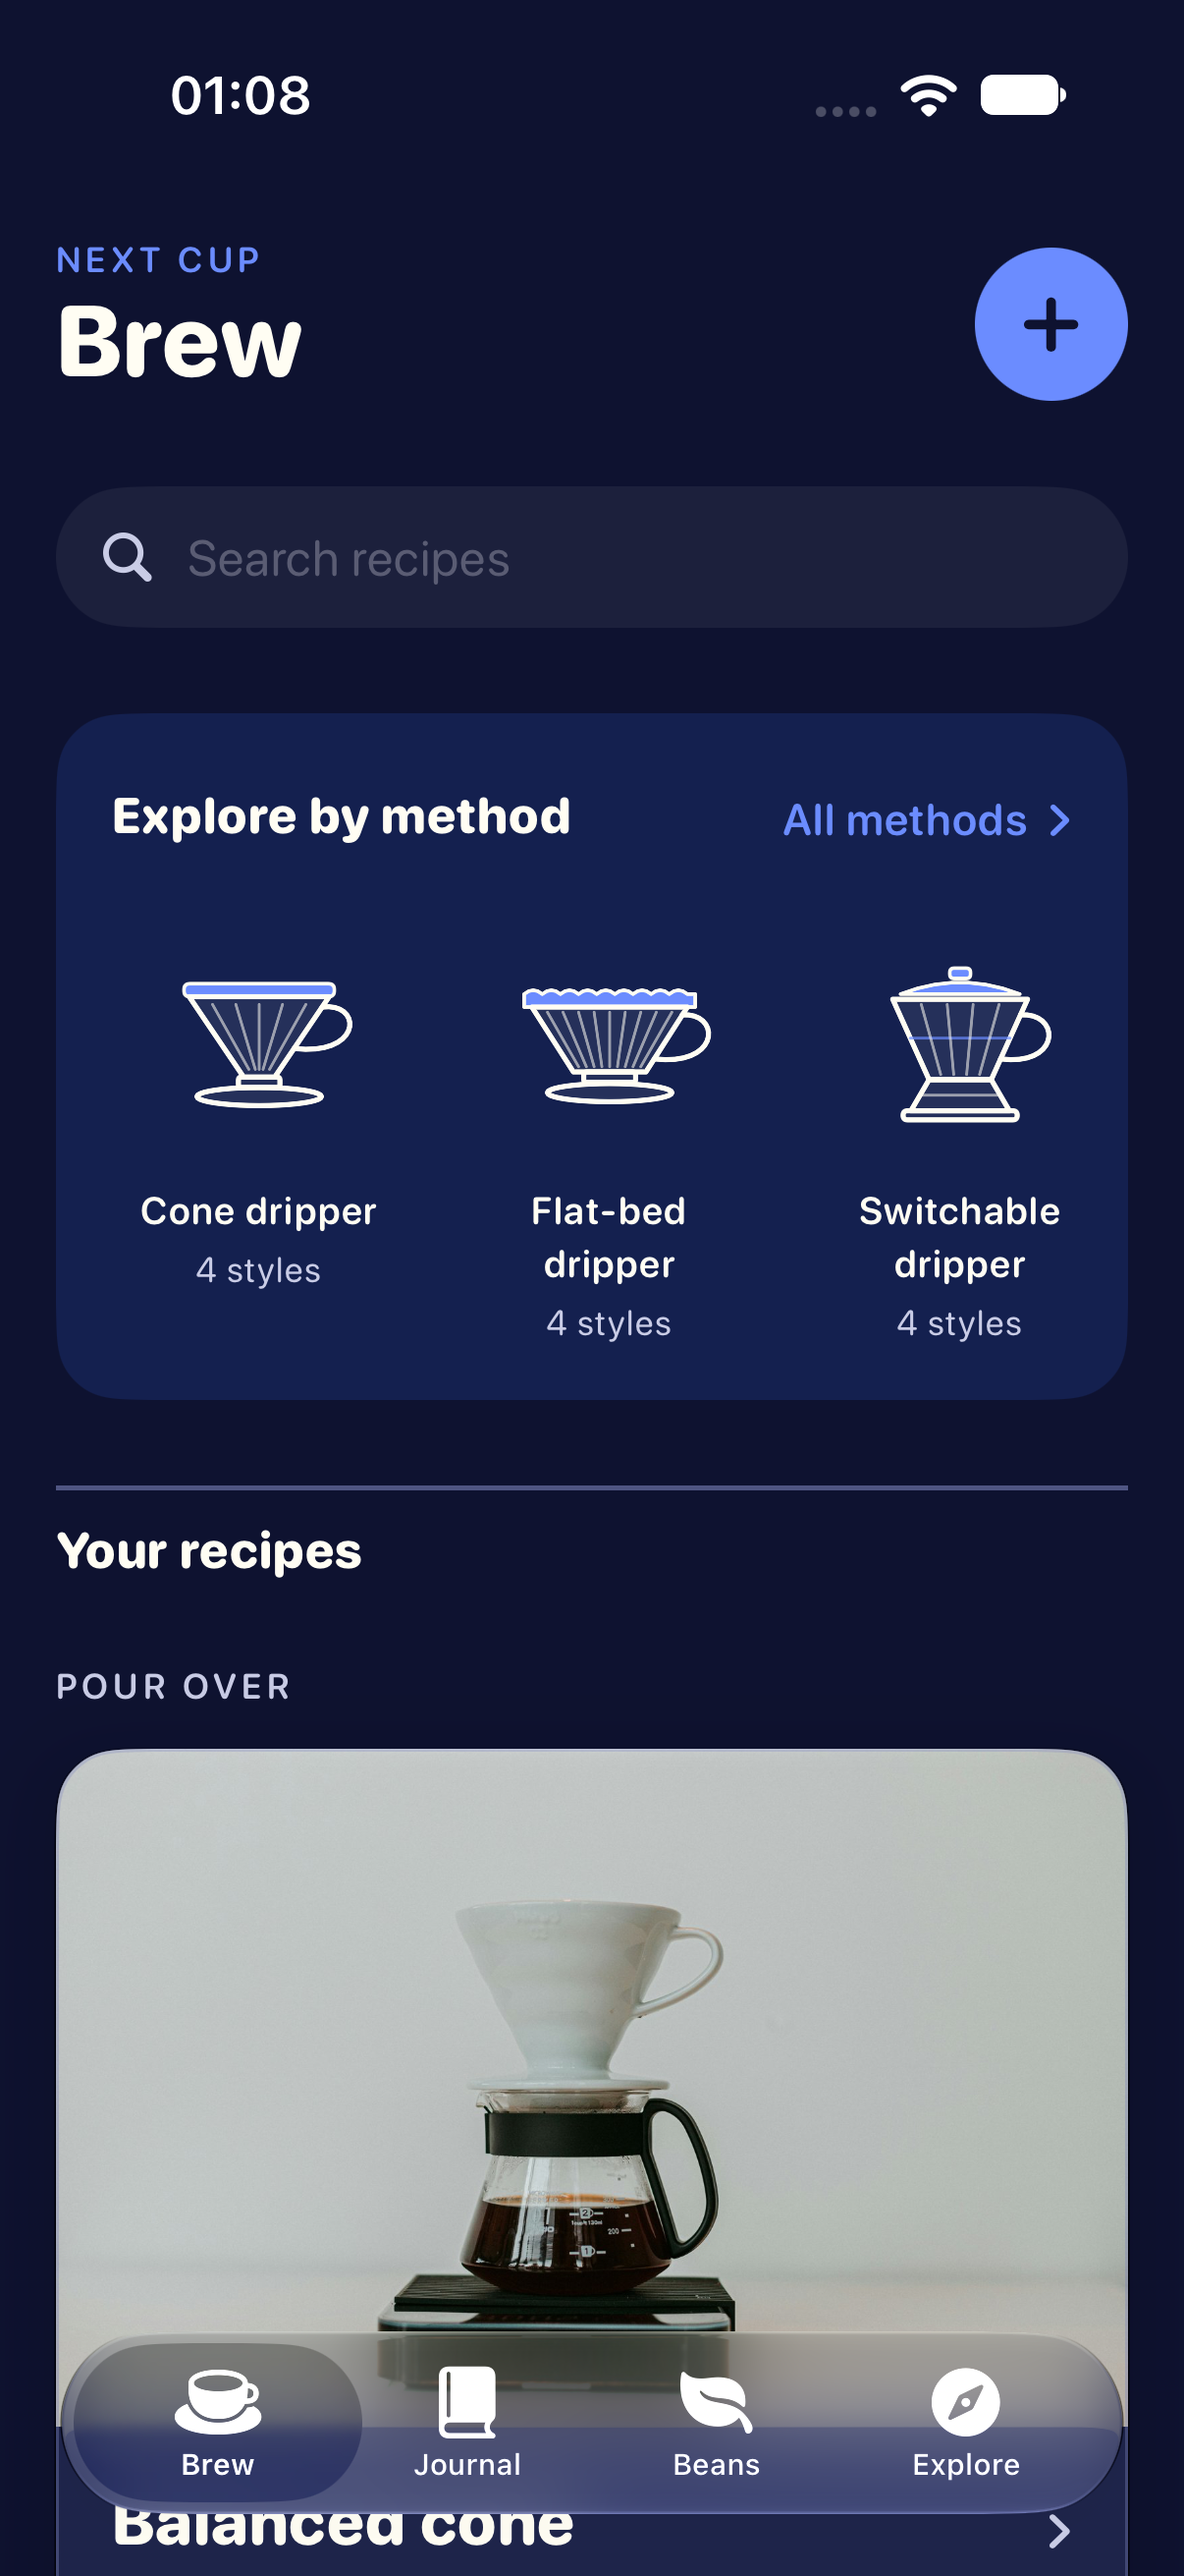
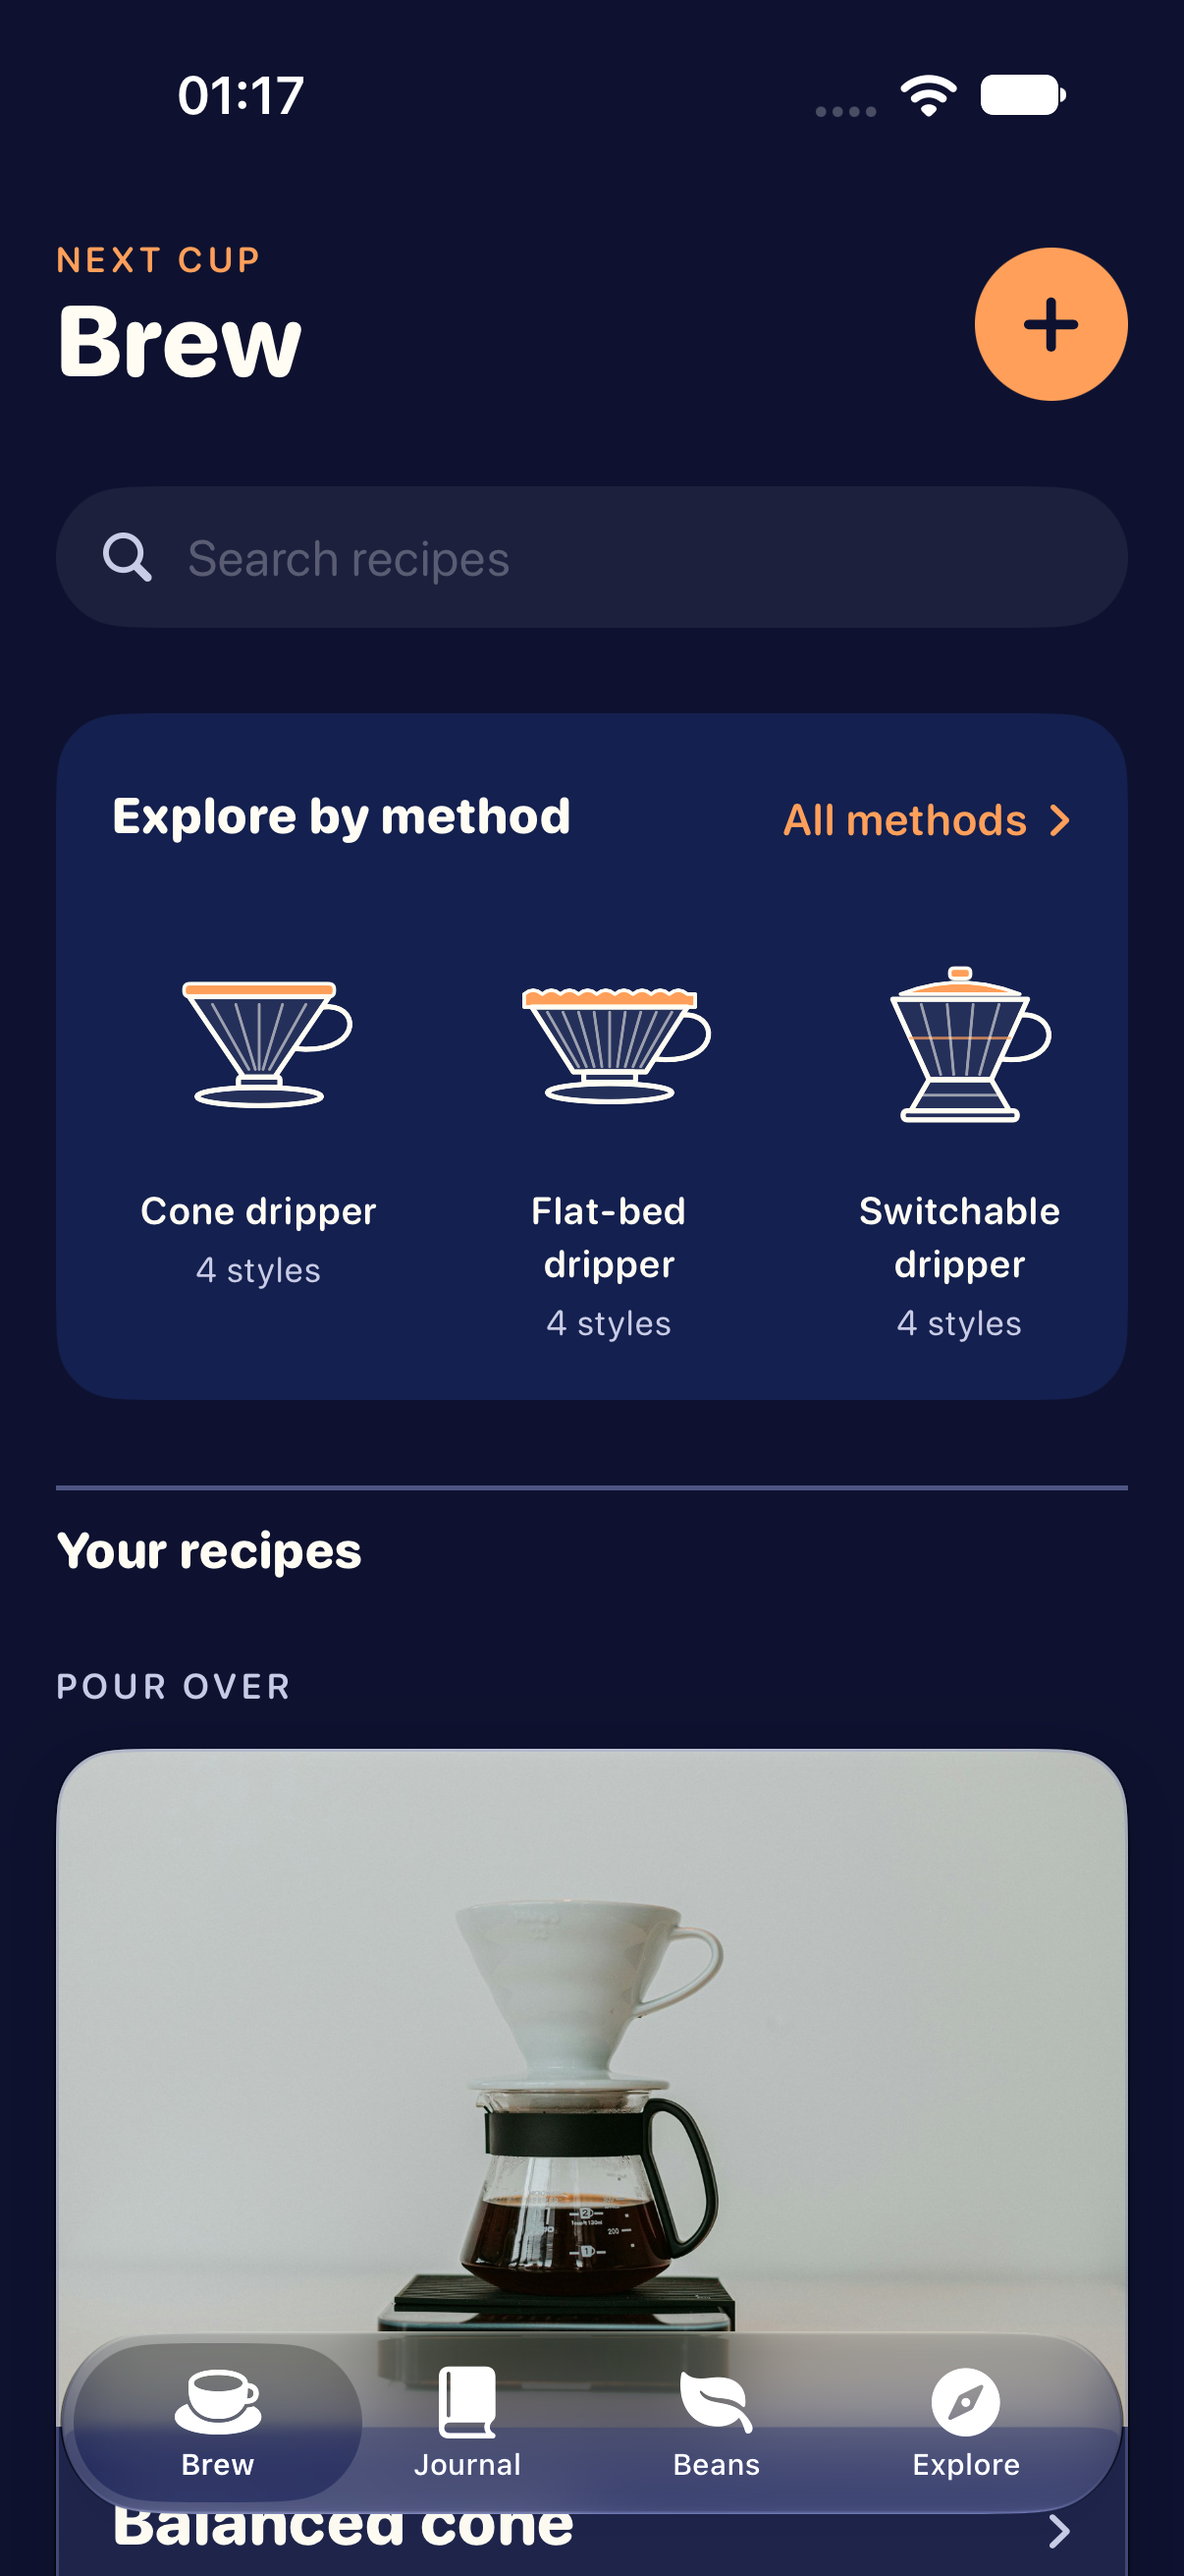
Sunday Studio dark: orange buttons and accent

diff --git a/NextCup/DesignSystem/Tokens.swift b/NextCup/DesignSystem/Tokens.swift
@@ -365,7 +365,7 @@ enum AppStyle: String, CaseIterable, Identifiable {
       Palette(
         bg: P(0xFFFDF3, 0x0E1230), paper: P(0xFFFFFF, 0x171D45), steel: P(0x1B2F7A, 0x2448C8),
         onSteel: P(0xFFFDF3, 0xFFFDF3), ink: P(0x2B1A12, 0xFFFDF3), ink2: P(0x625046, 0xC9CCE6),
-        line: P(0x8A7A6E, 0x7B82B8), signal: P(0x2448C8, 0x6B8CFF),
+        line: P(0x8A7A6E, 0x7B82B8), signal: P(0x2448C8, 0xFF9F5A),
         onSignal: P(0xFFFFFF, 0x0E1230), signalOnSteel: P(0xF5E8A4, 0xF5E8A4),
         kraft: P(0xF5E8A4, 0x14204F), onKraft: P(0x2B1A12, 0xFFFDF3),
         error: P(0x9A1B0A, 0xFFA08C), ok: P(0x2A6A2A, 0x9FE0A8))
